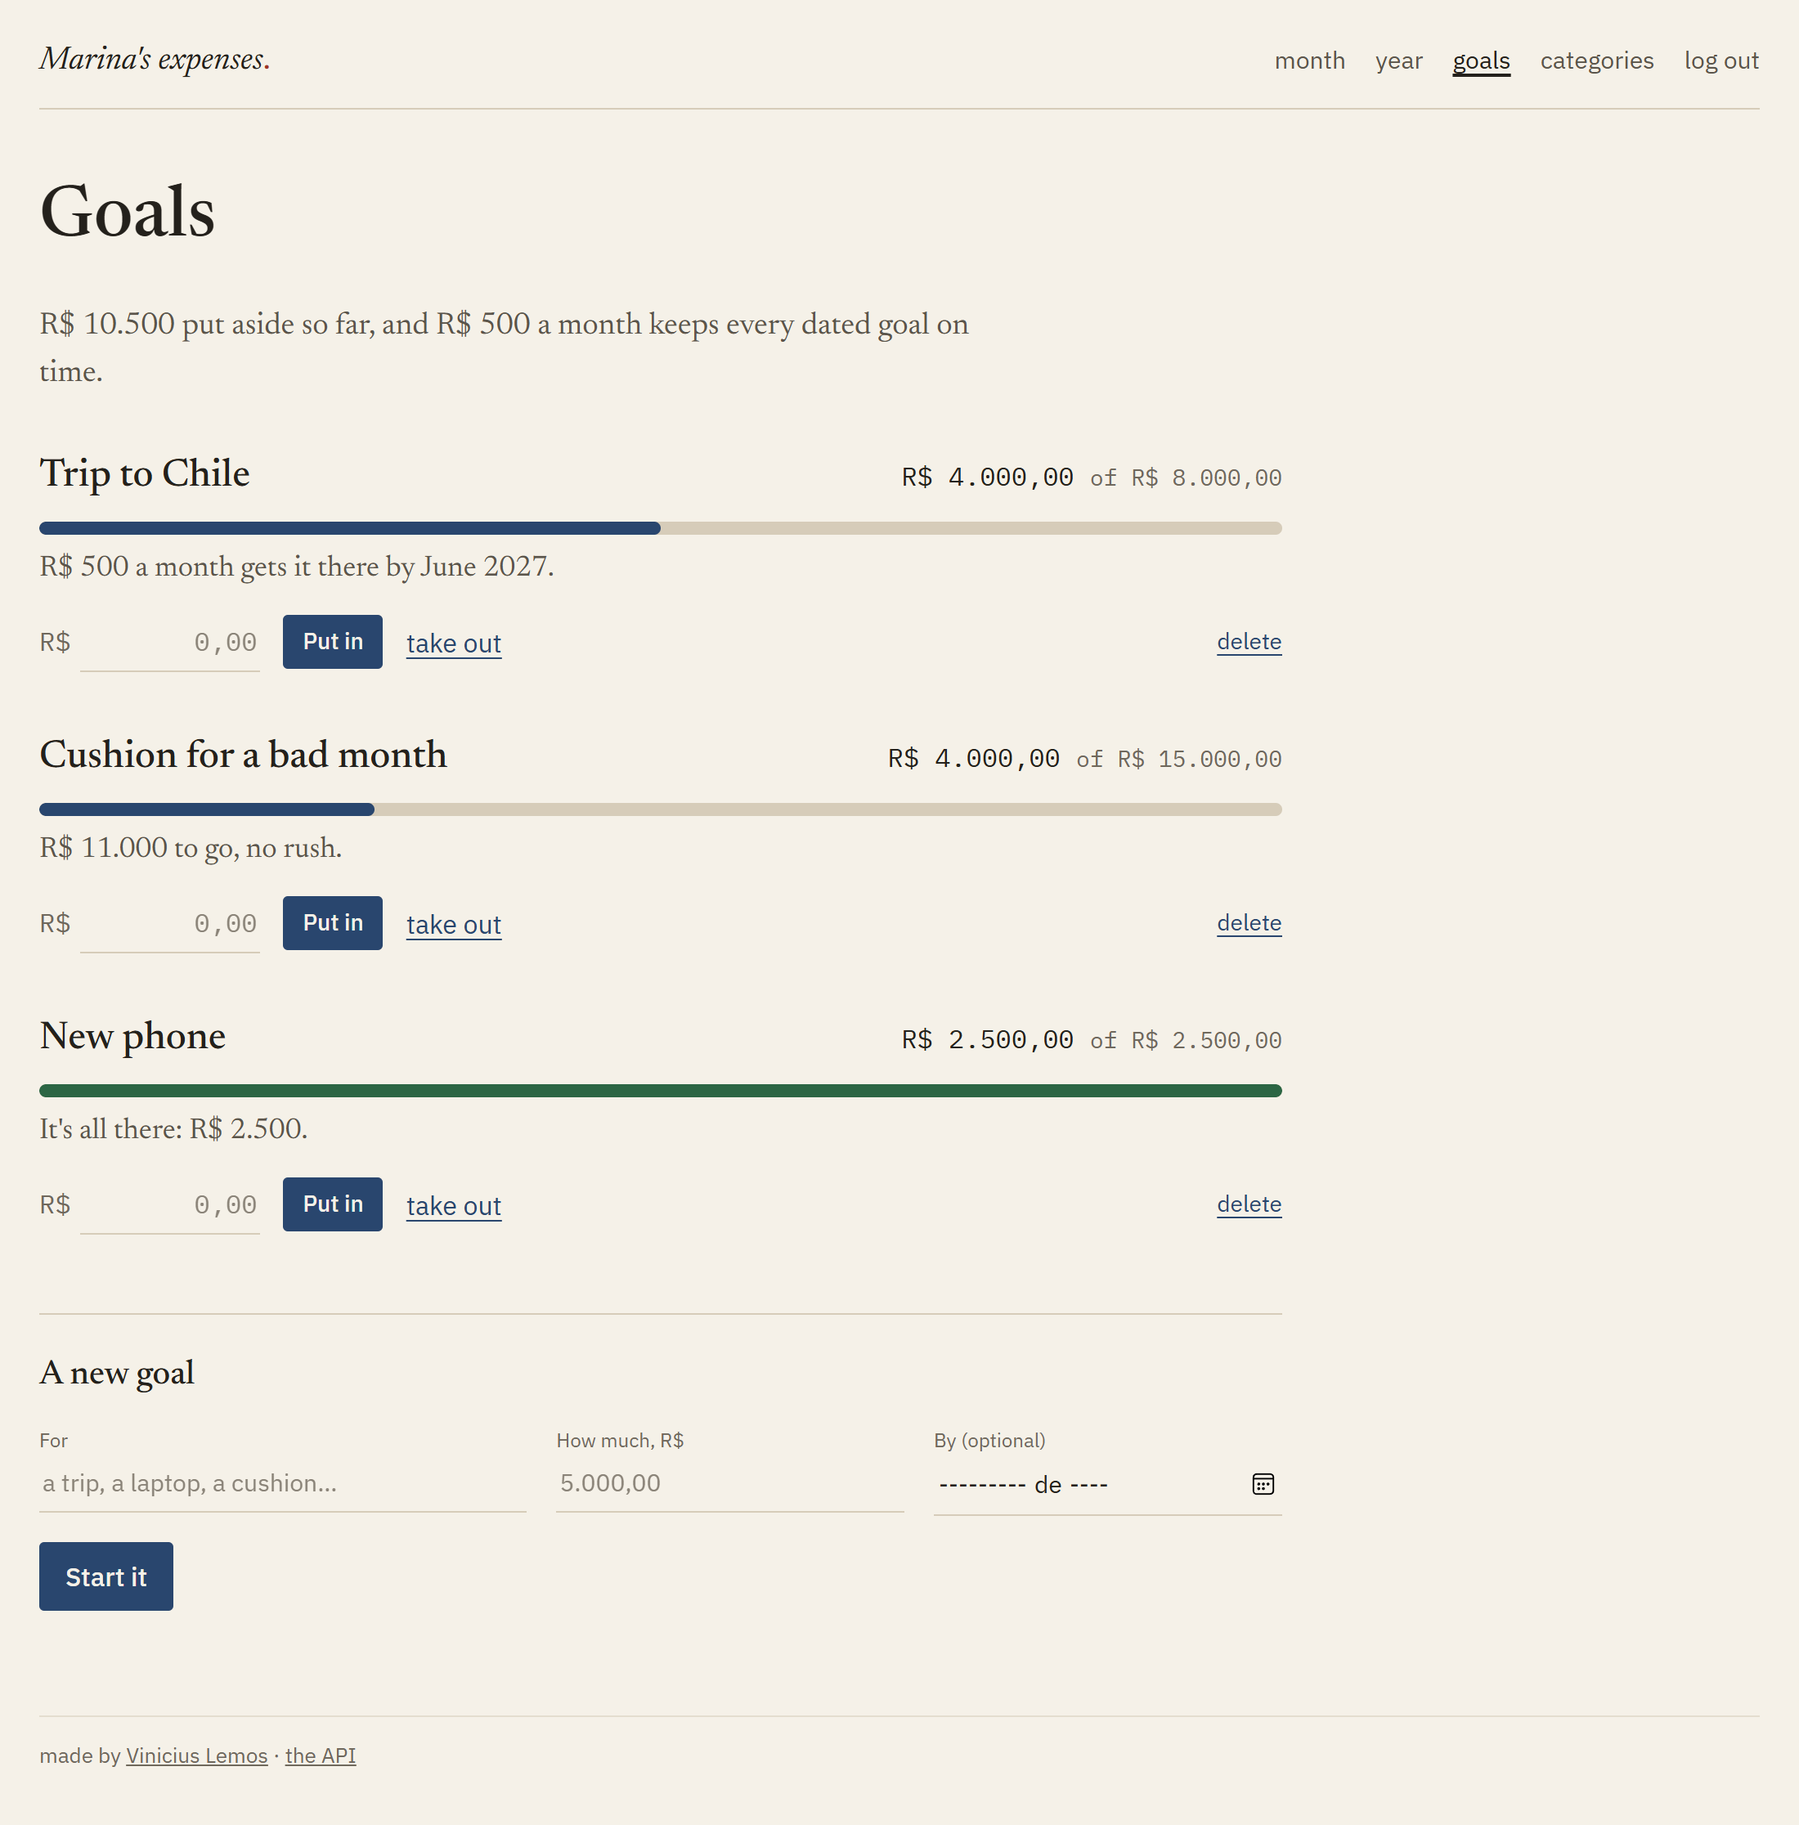
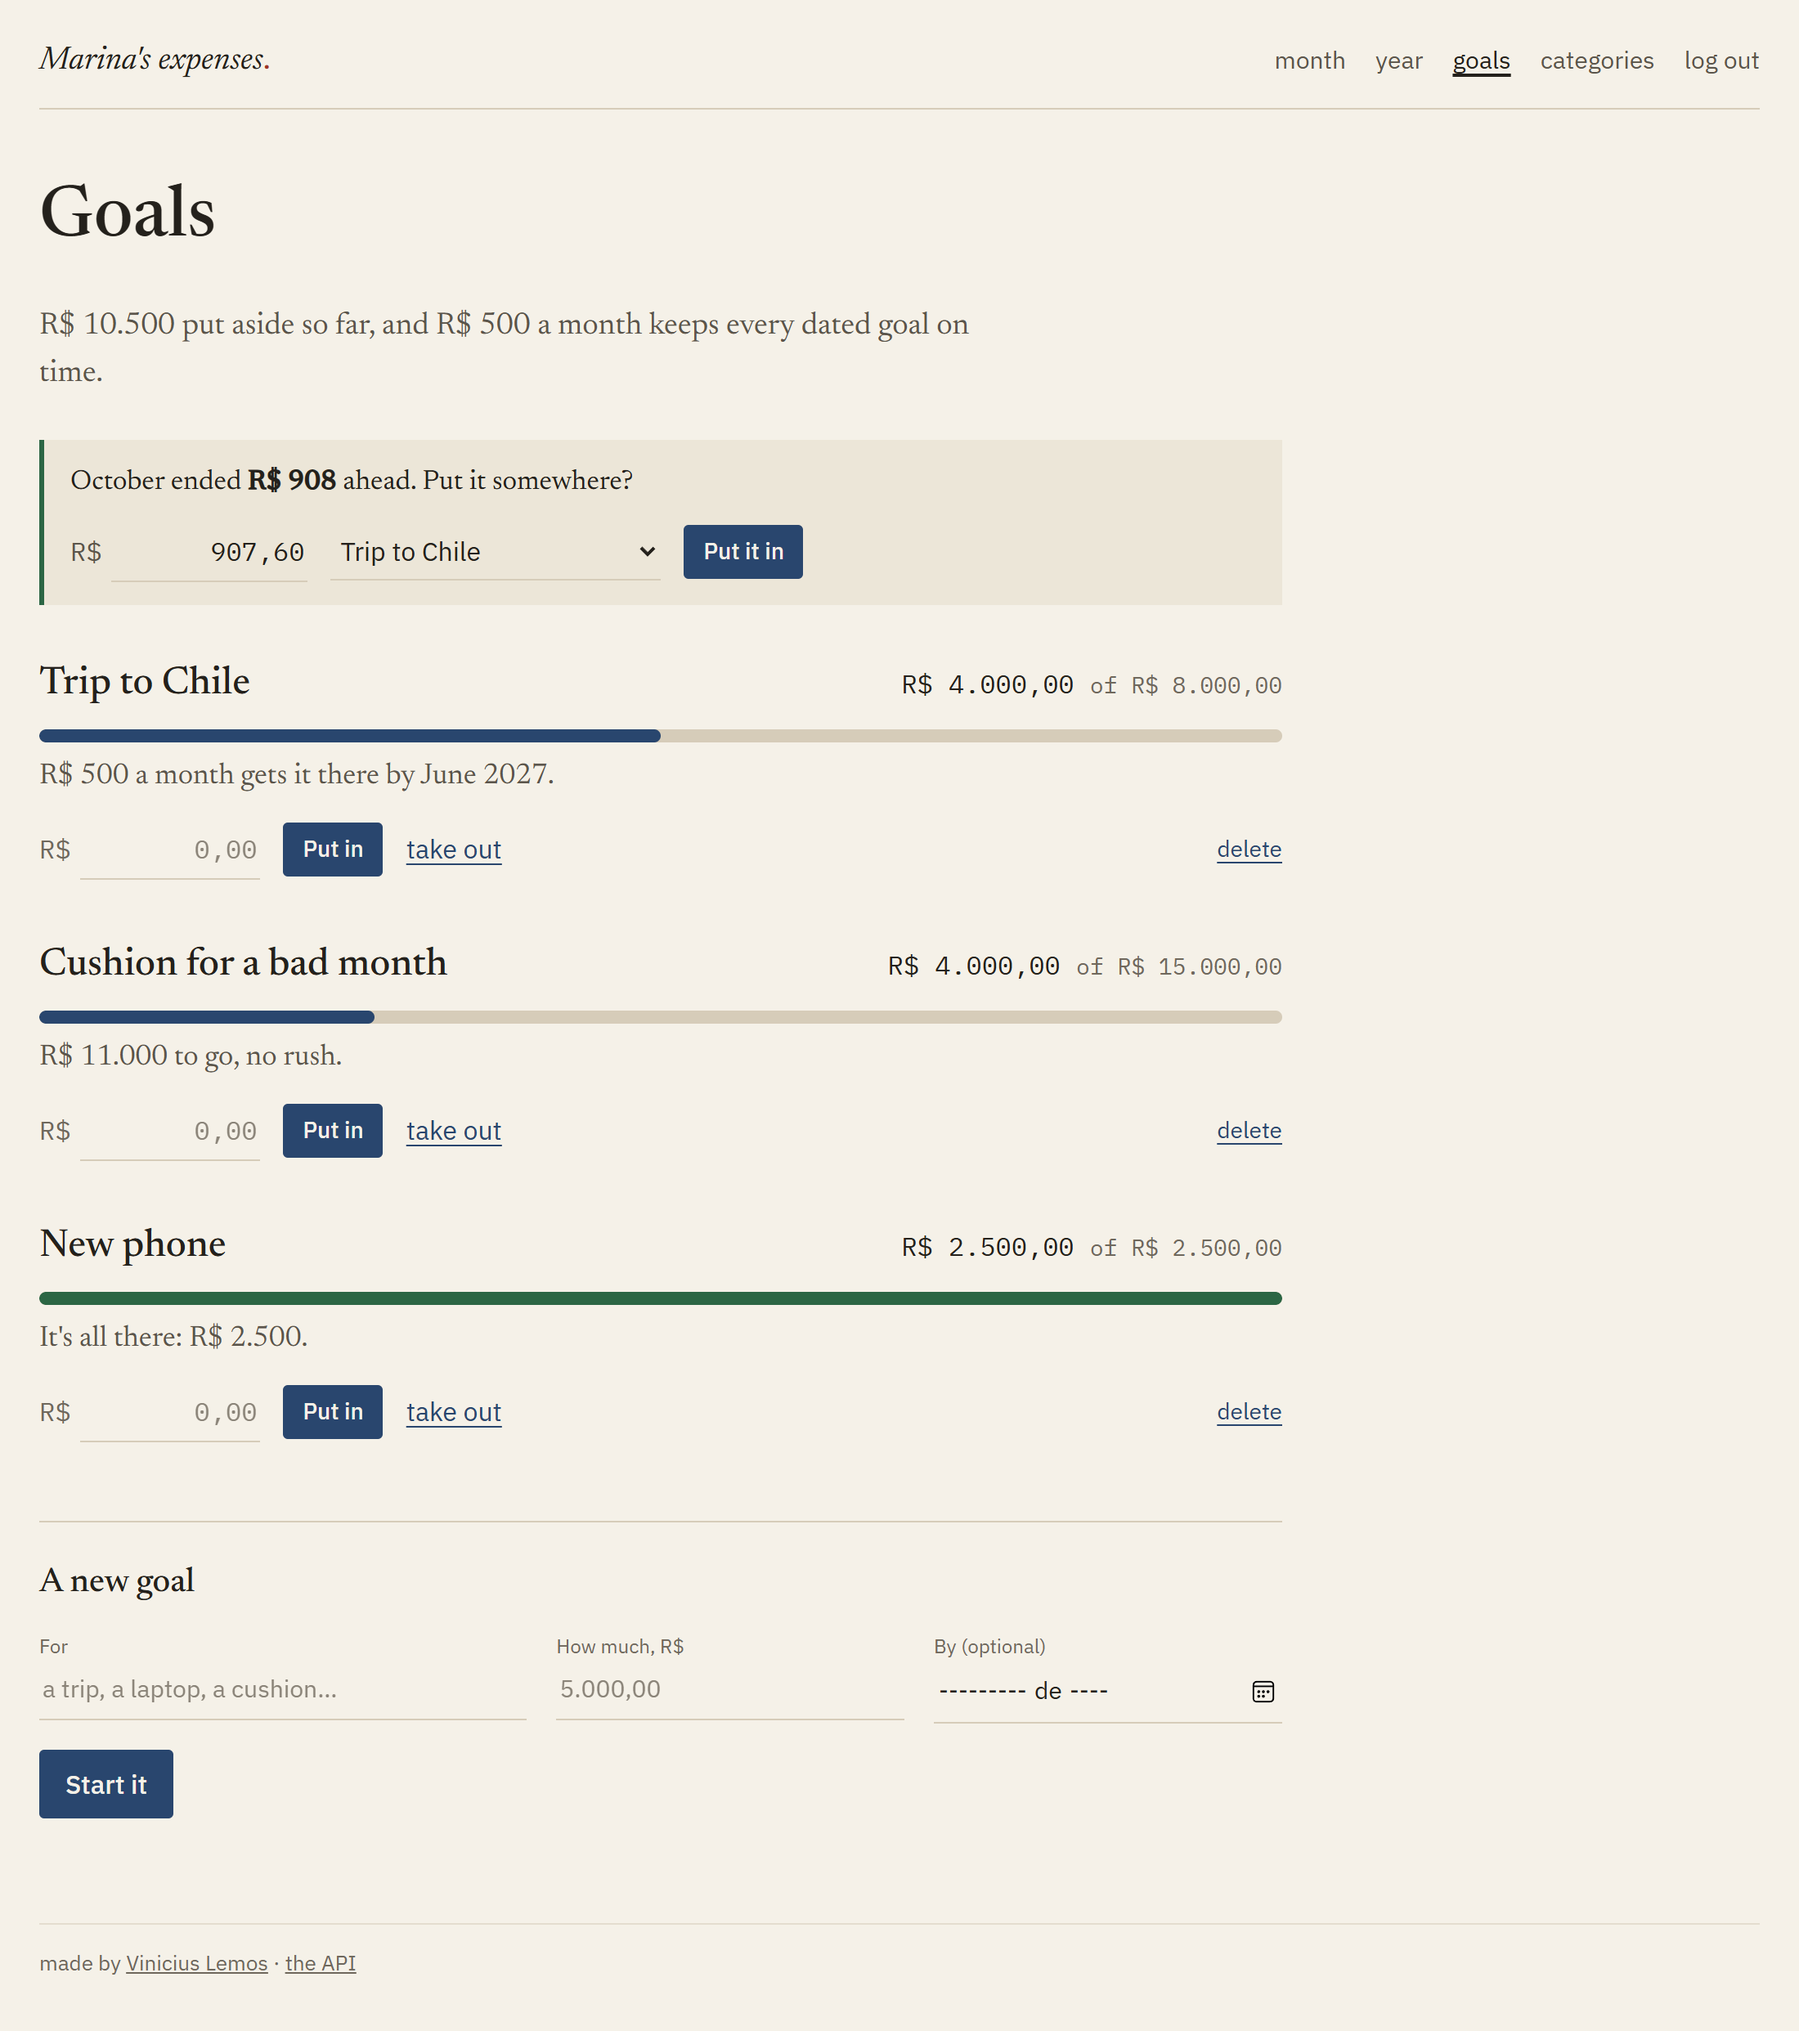
readme: last month's leftover

diff --git a/README.md b/README.md
@@ -25,7 +25,7 @@ I wanted it to feel like the notebook people actually use for this, not like a d
 - **The biggest ones.** The three largest expenses of the month in the margin, and how much of everything that went out they were together. Usually it's rent and two surprises. Clicking one jumps to its day.
 - **The last six months,** and clicking one opens it.
 - **The year on one page.** How much came in and went out, the share of it that was kept, the most expensive and the lightest month (only whole months: November isn't light, it just isn't over), the twelve months side by side and where the money went, each category with what it costs in a month where it shows up. Clicking a month opens it.
-- **Goals.** Money put aside for something: a trip, a laptop, a cushion for bad months. Each one has an amount and, if you want, a month to reach it by, and then it says how much a month still gets it there (*"R$ 500 a month gets it there by June 2027"*), rounded up so it really does. Putting in and taking out are one field. What's saved is the sum of every move, so there's a history and nothing drifts.
+- **Goals.** Money put aside for something: a trip, a laptop, a cushion for bad months. Each one has an amount and, if you want, a month to reach it by, and then it says how much a month still gets it there (*"R$ 500 a month gets it there by June 2027"*), rounded up so it really does. Putting in and taking out are one field. What's saved is the sum of every move, so there's a history and nothing drifts. When last month ended ahead, the page offers it: *"October ended R$ 908 ahead. Put it somewhere?"*, with the amount filled in minus whatever already went into goals this month.
 - **Your bank statement comes in as entries.** Export the CSV from Nubank (account or card), Inter, or any bank that gives a date, a description and an amount, and pick it on the categories page. It finds the header even with lines about the account above it, works out `;` or `,` and `1.234,56` or `1,234.56`, and flips the sign for card statements. Paying the card bill and moving money to savings are left out. Each line gets a category from its words (iFood is Food, Uber is Transport, Mercado Livre is Shopping), and before anything is saved it shows how many and how much. The file is read in the browser, and the same file twice doesn't repeat anything.
 - You can filter by kind and category, search, and export the month to CSV, which opens straight in Excel.
 - **A search can look in every month,** not only the one open: "when did I last pay the dentist?" With that on, each day in the list also says which month it's from. A search that finds nothing in this month offers to look in the others.
@@ -59,7 +59,7 @@ It lives in `api/`, written in FastAPI with psycopg, and the SQL is written by h
 - Anything that changes data needs an `X-Requested-With` header. A form on another site can't send it, and there's no CORS, so that covers CSRF.
 - The database itself refuses an entry in a category that belongs to another person or is of the other kind. That's a composite foreign key, `(category_id, user_id, kind)`, so it doesn't depend on the Python code remembering to check.
 - The list comes 50 entries at a time and pages by `(day, id)` instead of `OFFSET`. Page 40 is as fast as page 1, and nothing gets skipped when entries are added in between.
-- `/api/goals` keeps the goals and `/api/goals/{id}/moves` the money going in and out. Taking out more than is there is refused under a row lock, so two taps at once can't both take the last of it.
+- `/api/goals` keeps the goals and `/api/goals/{id}/moves` the money going in and out. Taking out more than is there is refused under a row lock, so two taps at once can't both take the last of it. `/api/goals/leftover` says what last month left that hasn't gone into a goal yet.
 - `GET /api/year/2026` is the year page in one request: twelve months with `generate_series`, so the empty ones are zeros, and the categories with how many months each shows up in.
 - `GET /api/dashboard?month=2026-10` brings everything the page needs in one request:
   - the totals, and last month's;
